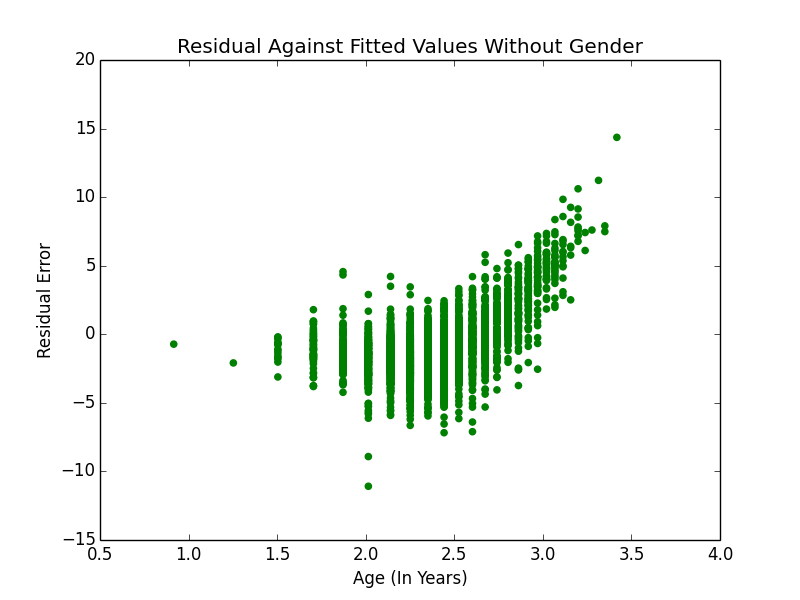
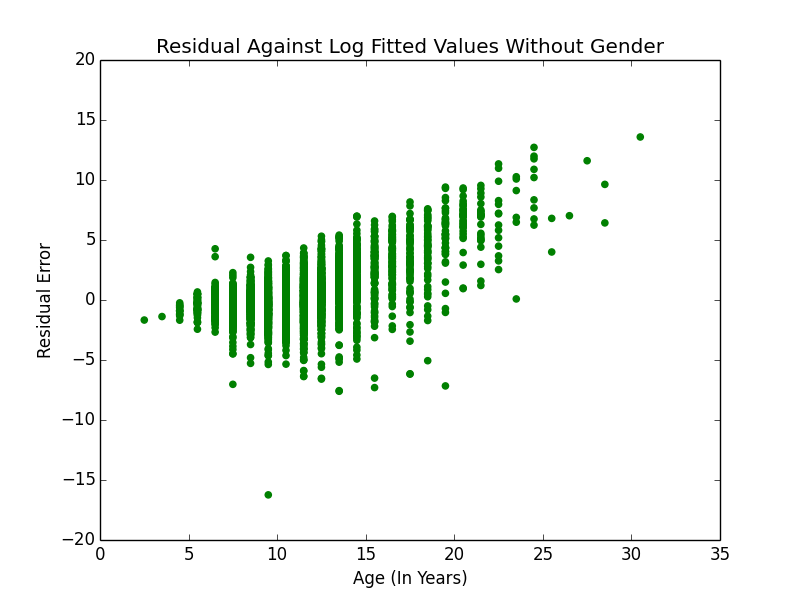
nothing to see here

diff --git a/Problem7.11.py b/Problem7.11.py
@@ -18,23 +18,23 @@ def log_regress():
 	y_values_1 = my_data[[7]].values
 
 	# Dataset description says add 1.5 to get age in year
-	y_values = y_values_1 + 1.5
+	y_values_1 = y_values_1 + 1.5
 
 	# Take the log of the entire dataset
-	x_values = numpy.log(x_values)
-	y_values = numpy.log(y_values)
+	#x_values = numpy.log(x_values)
+	y_values = numpy.log(y_values_1)
 
 	model = linear_model.LinearRegression()
 	model.fit(x_values, y_values)
 
-	print model.coef_			# [[-0.37012624  0.15745183  0.02948508  0.54335089 -0.52096194 -0.05743193	 0.3337817 ]]
+	print model.coef_			# [[ 0.25603512  1.39372311  1.11692882  0.58249223 -1.49644684 -0.65516573		0.54529821]]
 
 	y_predicted = model.predict(x_values)
 	y_predicted_transformed = numpy.array([math.pow(y_predicted[i][0], math.e) for i in range(len(y_values))]).reshape(-1, 1)
 
 	residual = y_values_1 - y_predicted_transformed
-	plt.scatter(y_values, residual, color='green')
-	plt.title("Residual Against Fitted Values Without Gender")
+	plt.scatter(y_values_1, residual, color='green')
+	plt.title("Residual Against Log Fitted Values Without Gender")
 	plt.ylabel("Residual Error")
 	plt.xlabel("Age (In Years)")
 	plt.show()
@@ -48,17 +48,16 @@ def log_regress_with_gender():						# FIX ME
 	my_data = my_data.replace("F", 1)
 	my_data = my_data.replace("M", -1)
 	my_data = my_data.replace("I", 0)
-	my_data = my_data.replace(0, 0.00000001)
 
 	x_values = my_data[[0, 1, 2, 3, 4, 5, 6, 7]].values
 	y_values_1 = my_data[[8]].values
 
 	# Dataset description says add 1.5 to get age in year
-	y_values = y_values_1 + 1.5
+	y_values_1 = y_values_1 + 1.5
 
 	# Take the log of the entire dataset
-	x_values = numpy.log(x_values)
-	y_values = numpy.log(y_values)
+	#x_values = numpy.log(x_values)
+	y_values = numpy.log(y_values_1)
 
 	model = linear_model.LinearRegression()
 	model.fit(x_values, y_values)
@@ -69,8 +68,8 @@ def log_regress_with_gender():						# FIX ME
 	y_predicted_transformed = numpy.array([math.pow(y_predicted[i][0], math.e) for i in range(len(y_values))]).reshape(-1, 1)
 
 	residual = y_values_1 - y_predicted_transformed
-	plt.scatter(y_values, residual, color='green')
-	plt.title("Residual Against Fitted Values Without Gender")
+	plt.scatter(y_values_1, residual, color='green')
+	plt.title("Residual Against Log Fitted Values With Gender")
 	plt.ylabel("Residual Error")
 	plt.xlabel("Age (In Years)")
 	plt.show()

diff --git a/Problem7.10.py b/Problem7.10.py
@@ -1,5 +1,6 @@
 import pandas
 import numpy
+import math
 
 # For linear regression
 from sklearn import linear_model
@@ -21,15 +22,12 @@ def linear_reg():
 	x_values = my_data[[1, 2, 3, 4, 5, 6, 7, 8, 9, 10]].values
 	y_values = my_data[[0]].values
 
-	print (x_values)
-	print (y_values)
-
 	model = linear_model.LinearRegression()
 	model.fit(x_values, y_values)
 
 	print model.coef_			# [[ 1.78181867  0.1550904   0.18913544 -0.48183705 -0.02931235  0.66144124		0.31784645  0.44589018  0.29721231 -0.91956267]]
 
-	# Plot the regression line
+	# Plot the residual
 	residual = y_values - model.predict(x_values)
 	plt.scatter(y_values, residual, color='black')
 	plt.ylabel("Residual")
@@ -38,12 +36,45 @@ def linear_reg():
 
 
 def cube_root_reg():
-	filename = "sulfate_dataset.txt"
+	filename = "physical.txt"
 	my_data = pandas.read_csv(filename, sep="\t", header=0)
+
+	x_values = my_data[[1, 2, 3, 4, 5, 6, 7, 8, 9, 10]].values
+	y_values = my_data[[0]].values
+
+	y_values_cr = numpy.array([math.pow(y_values[i][0], 0.3333) for i in range(len(y_values))]).reshape(-1, 1)
+
+	# Regress the cube root of mass against the dimensions
+	model = linear_model.LinearRegression()
+	model.fit(x_values, y_values_cr)
+
+	print model.coef_		# [[ 0.0279648   0.00414277  0.0010515  -0.00253113  0.0008099   0.01114955		0.00577241  0.01065397  0.00791703 -0.01244873]]
+
+	# Plot residual in original co-orid
+	y_predicted_cr = model.predict(x_values)
+	y_predicted = numpy.array([math.pow(y_predicted_cr[i][0], 3) for i in range(len(y_values))]).reshape(-1, 1)
+
+	residual = y_values - y_predicted
+
+	plt.scatter(y_values, residual, color='green')
+	plt.title("Original Co-ordinates")
+	plt.ylabel("Residual")
+	plt.xlabel("Fitted Values")
+	plt.show()
+
+	residual_cr = y_values_cr - y_predicted_cr
+	plt.scatter(y_values_cr, residual_cr, color='green')
+	plt.title("Cube Root Co-ordinates")
+	plt.ylabel("Residual")
+	plt.xlabel("Fitted Values")
+	plt.show()
+
 
 
 def main():
-	linear_reg()
+	#linear_reg()
+
+	cube_root_reg()
 
 if __name__ == '__main__':
 	main()

diff --git a/Problem7.9.py b/Problem7.9.py
@@ -32,16 +32,16 @@ def regress_curve_2():
 	x = x.reshape(-1, 1)
 
 	model = linear_model.LinearRegression()
-	model.fit(x, y)
+	model.fit(x, y_transformed)
 
 	print lamb				# lamb = -1.10251654861
 	print model.coef_		# [[-0.00061966]]
 	
 	# Predict y
 	y_predicted = model.predict(x)
-	
+	print y_predicted
 	# Transform the predicted y
-	y_predicted_transformed = numpy.array([math.pow(y_predicted[i][0], lamb) for i in range(len(y))]).reshape(-1, 1)
+	y_predicted_transformed = numpy.array([math.pow(y_predicted[i], lamb) for i in range(len(y))]).reshape(-1, 1)
 
 	plt.scatter(x, y, color='green', label="Original Data Points")	# Original data points transformed
 	plt.plot(x, y_predicted_transformed, 'o', color='red', label="Regression Curve")								# plot predicted y vs x curve
@@ -127,11 +127,11 @@ def regress_log_log():
 	plt.show()
 
 def main():
-	regress_log_log()
+	#regress_log_log()
 
 	#regress_curve()
 
-	#regress_curve_2()
+	regress_curve_2()
 
 if __name__ == '__main__':
 	main()
